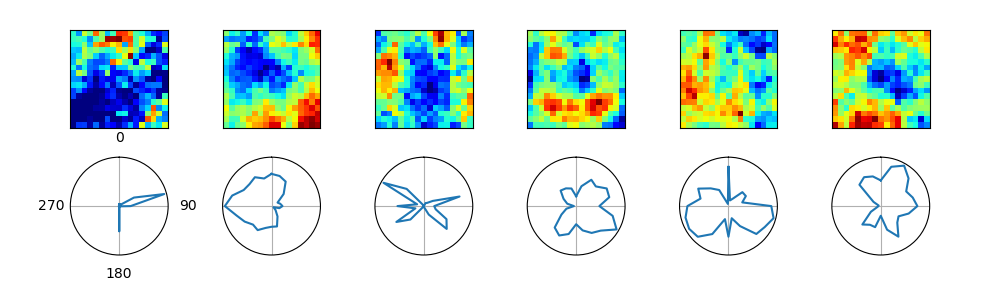
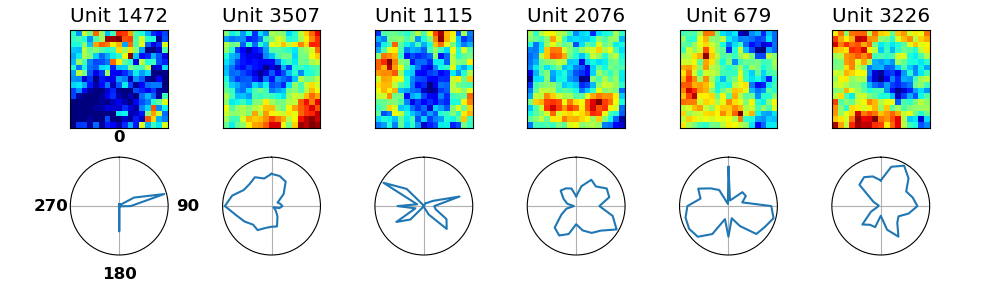
improved plotter

diff --git a/figures_paper.py b/figures_paper.py
@@ -1481,6 +1481,7 @@ def unit_visualization_by_type():
                     ax.imshow(heatmap, cmap='jet', interpolation='nearest')
                     ax.set_xticks([])
                     ax.set_yticks([])
+                    ax.set_title(f'Unit {unit_index}')
 
                     # --- subplot2: plot polar plot for the selected units ---
                     ax = fig.add_subplot(gs[1, col_index], projection='polar')
@@ -1703,8 +1704,8 @@ if __name__ == '__main__':
     TF_NUM_INTRAOP_THREADS = 10
     # decoding_each_model_across_layers_and_sr()
     # decoding_all_models_one_layer_one_sr()
-    lesion_by_coef_each_model_across_layers_and_lr()
-    lesion_by_unit_chart_each_model_across_layers_and_lr()
+    # lesion_by_coef_each_model_across_layers_and_lr()
+    # lesion_by_unit_chart_each_model_across_layers_and_lr()
     # unit_chart_type_against_coef_each_model_across_layers()
-    # unit_visualization_by_type()
+    unit_visualization_by_type()
     # unit_chart_visualization_piechart()
